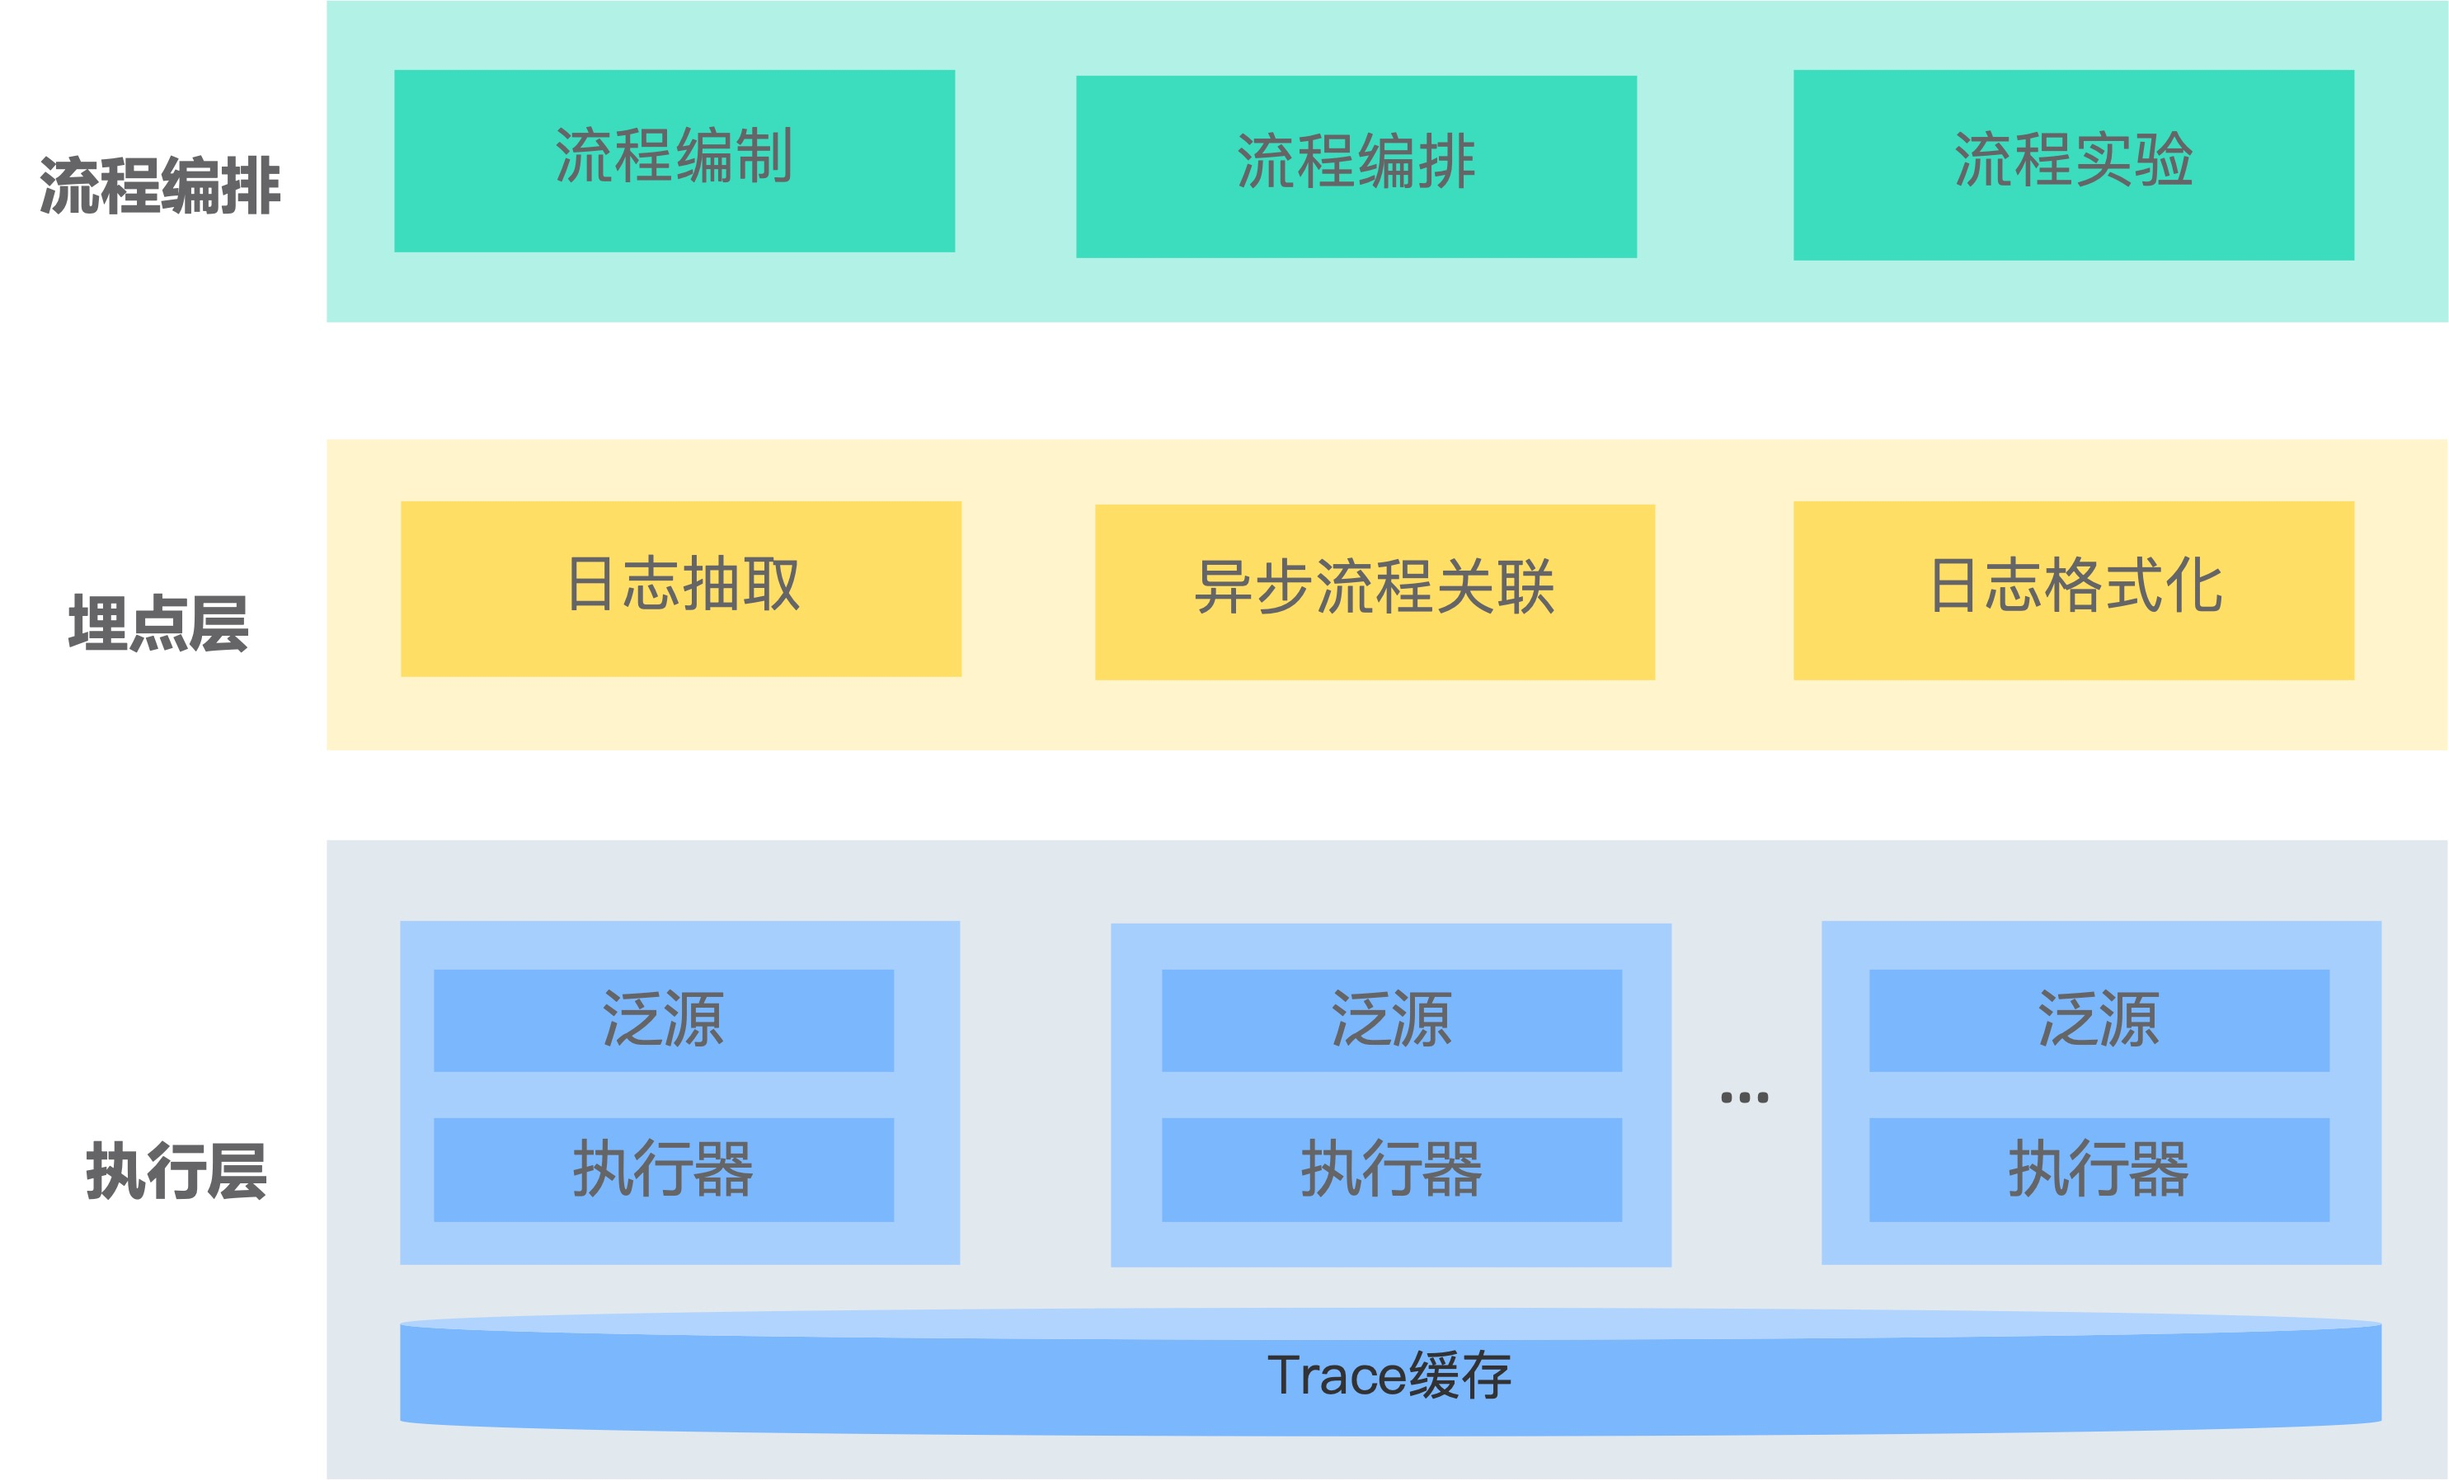
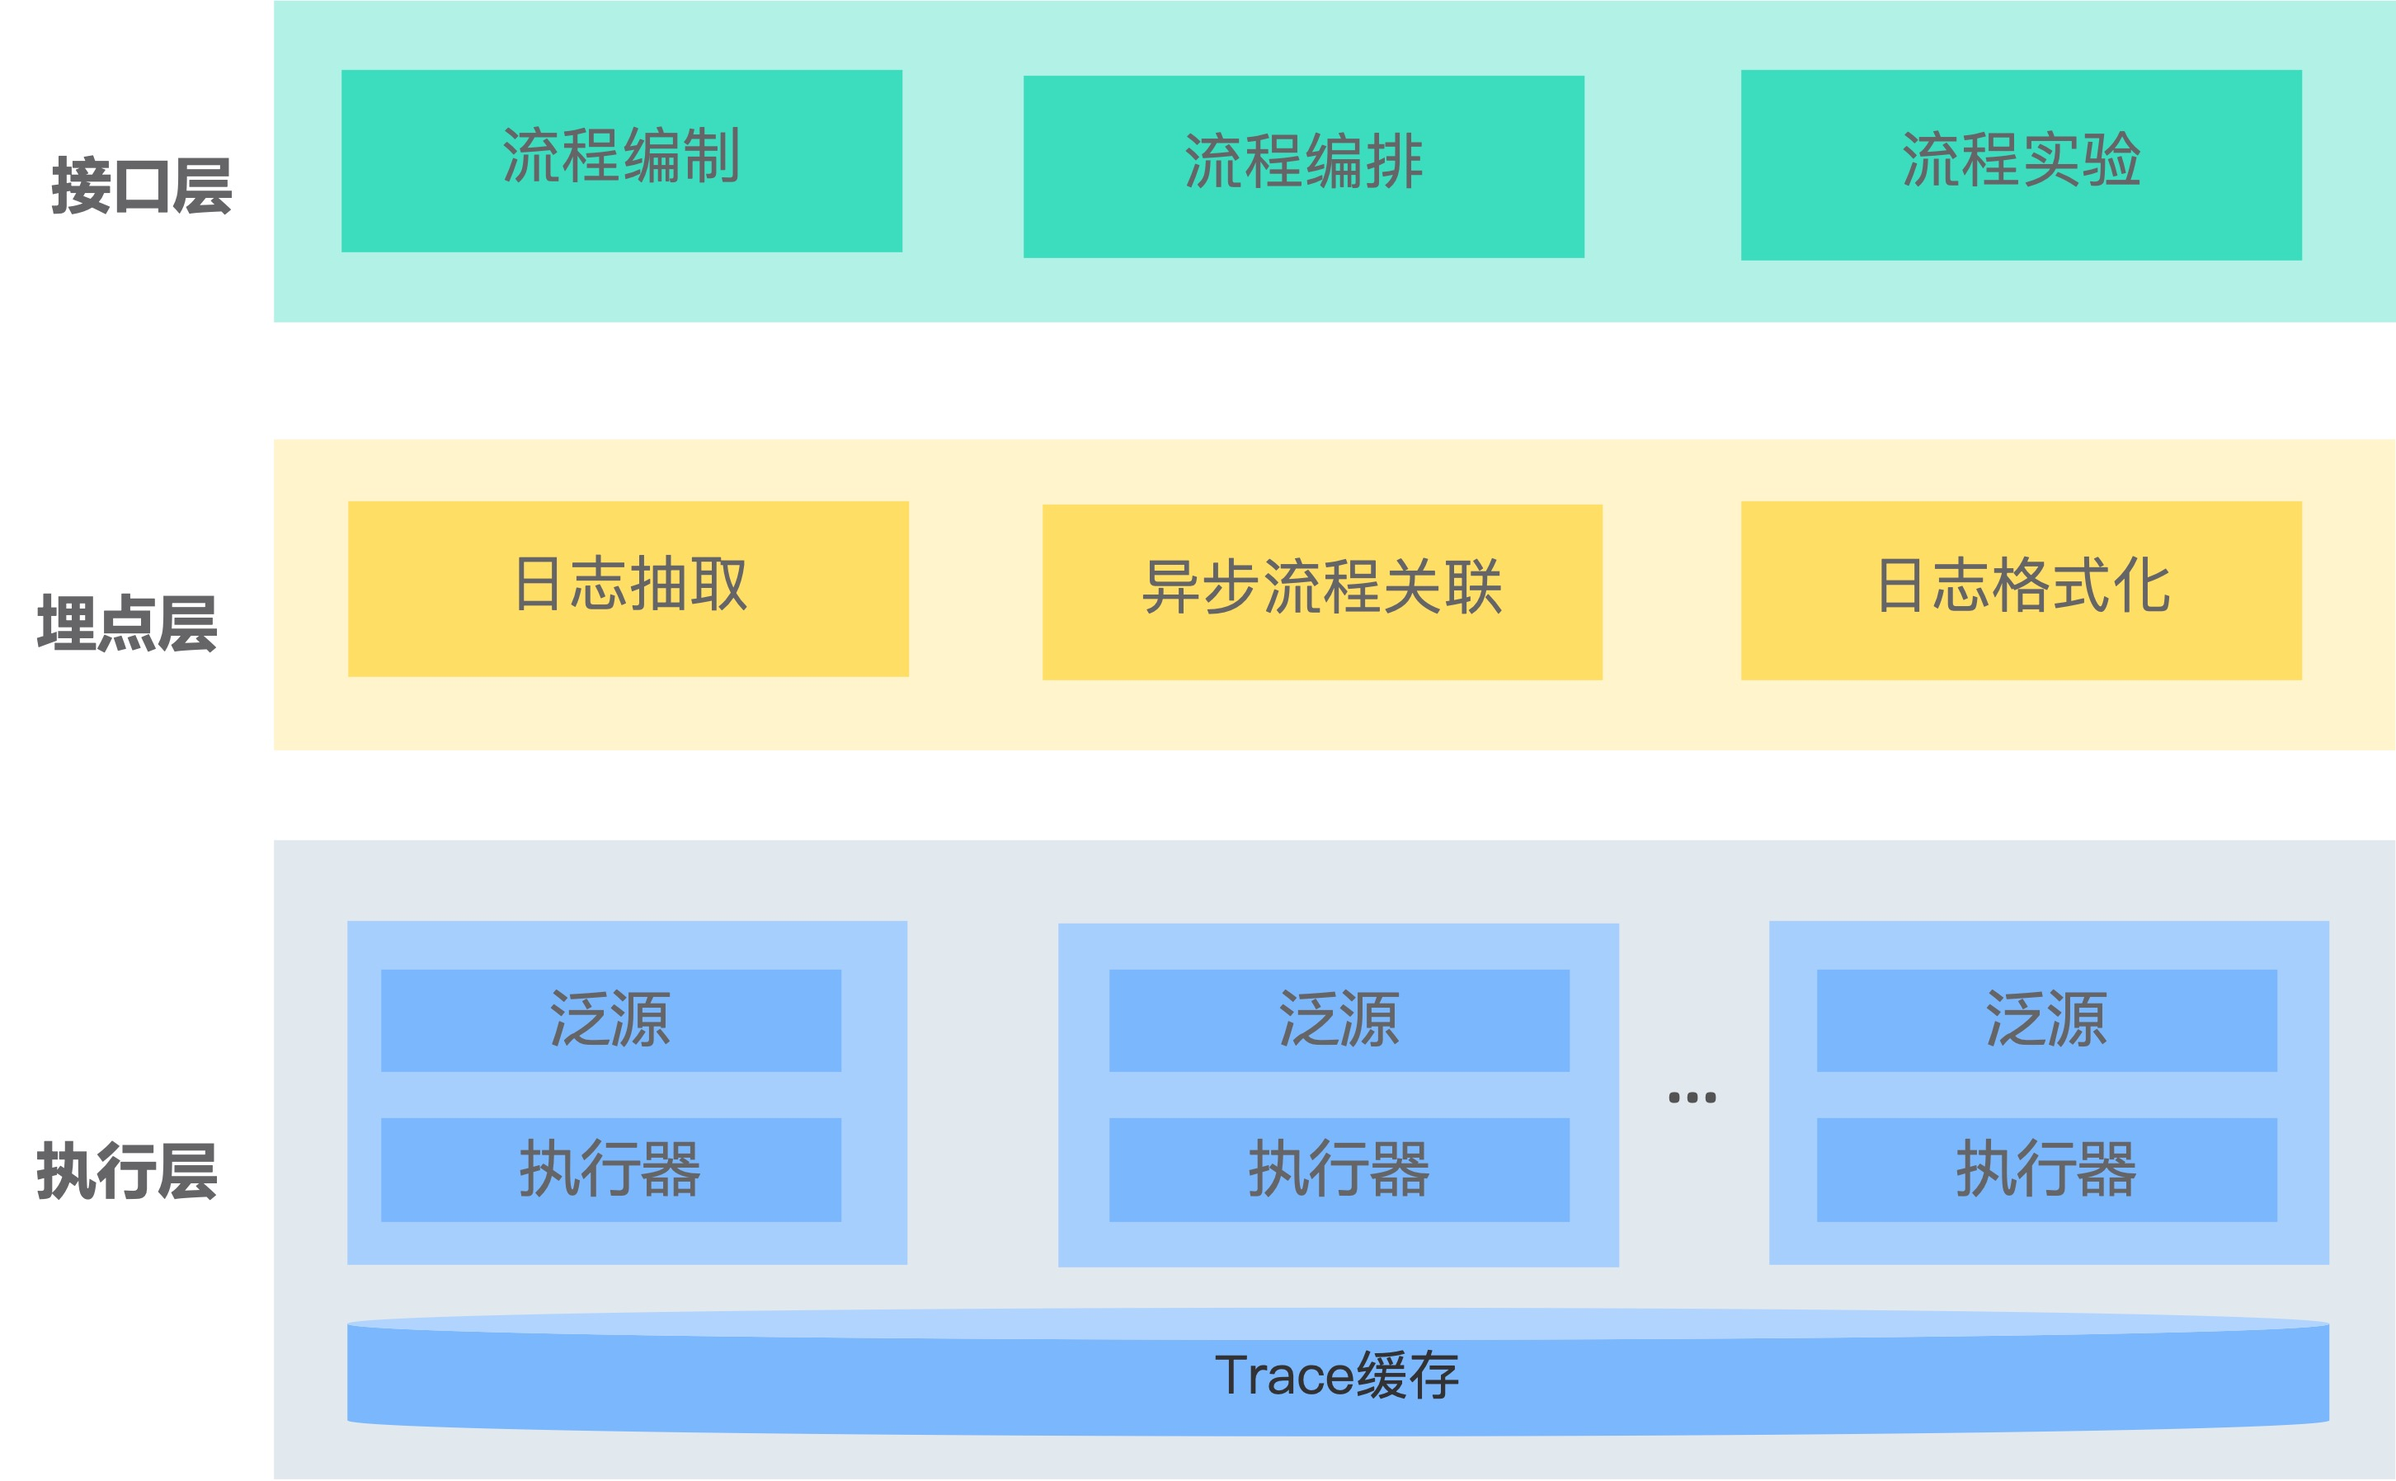
[HOROSCOPE-68] improve quick start doc

diff --git a/docs/programming-guides/quick-start.md b/docs/programming-guides/quick-start.md
@@ -67,19 +67,26 @@ curl --location --request POST 'http://localhost:8062/api/schedule/info/_/now/de
 ```json
 {
     "user_name": "Jane",
-    "text": "Text"
+    "text": "Hello world"
 }
 ```
 
 ## Flow定义
-```json
+```text
 # /demo/quickstart // 这是flow名称, 可以是任意格式, 但星盘服务一般要求为类似文件的url格式
 ***
   user_name <- @.user_name // @表示输入参数
   text_length <- @.text.length()
   <> { // 两个括号是if语句, 由于FlowDSL流程图语言, 这里用<>表达分支
-    ? is_valid = text_length < 150 // ?后面的is_valid是这个分支的tag, 用于埋点, 在星盘的概念中, 叫做choice
-    => {}
+    ? is_valid = text_length < 150 // 问号后面的is_valid是这个分支的tag, 用于埋点, 在星盘的概念中, 叫做choice
+    => {
+    text_is_valid <- true
+    }
+    
+    ? is_not_valid = text_length >= 150
+    => {
+    text_is_valid <- false
+    }    
   }
 ***
 ```
@@ -115,7 +122,7 @@ class DemoLocalService extends Logging {
 ```
 
 ## 服务配置
-星盘服务配置采用typesafe config的风格
+星盘服务配置采用[typesafe config](https://github.com/lightbend/config)的风格
 ```config
 horoscope {
   sources = [

diff --git a/README.md b/README.md
@@ -13,12 +13,13 @@
 + **实时分布式**: Flow的执行层是高并发, 高可用的实时流架构, 集群可动态伸缩, 同时支持状态缓存
 
 # 快速开始
+[5分钟快速搭建服务](./docs/programming-guides/quick-start.md)
 
 # 系统架构
 ![architecture](./docs/assets/images/architecture.jpg)
 
 星盘框架分为三层:
-+ 编排层: 定义了流程编制, 编排和实验的接口. 在星盘系统中, 流程编制指一个可执行的流程单元, 用于串连和各个微服务的交互过程. 流程编排指管理多个流程之间的交互关系, 例如延迟调度
++ 接口层: 定义了流程编制, 编排和实验的接口. 在星盘系统中, 流程编制指一个可执行的流程单元, 用于串连和各个微服务的交互过程. 流程编排指管理多个流程之间的交互关系, 例如过程调用, 延迟调度
 + 埋点层: 基于编排定义, 框架会自动地抽取, 关联和转换埋点日志
 + 执行层: Flow执行是分布式的, 每台机器的泛源指实时流, 例如kakfa的一个topic. 执行器负责编译和执行Flow, trace缓存用于支持带状态的计算.
 
